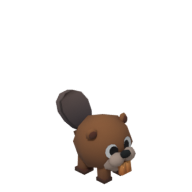
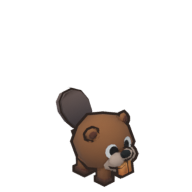
feat(art): outline and brighter lighting for animals

diff --git a/tools/blender/animals.py b/tools/blender/animals.py
@@ -21,6 +21,43 @@ def load(path: str, height: float) -> bpy.types.Object:
     return root
 
 
+def add_outline(width: float, color: str) -> None:
+    bpy.context.view_layer.update()
+    material = _outline_material(color)
+    for body in [body for body in bpy.data.objects if body.type == "MESH"]:
+        body.data.materials.append(material)
+        scale = sum(body.matrix_world.to_scale()) / 3.0
+        hull = body.modifiers.new("outline", "SOLIDIFY")
+        hull.thickness = width / scale
+        hull.offset = 1.0
+        hull.use_flip_normals = True
+        hull.use_rim = False
+        hull.material_offset = len(body.data.materials) - 1
+
+
+def _outline_material(color: str) -> bpy.types.Material:
+    material = bpy.data.materials.new("outline")
+    material.use_nodes = True
+    tree = material.node_tree
+    tree.nodes.clear()
+    output = tree.nodes.new("ShaderNodeOutputMaterial")
+    emission = tree.nodes.new("ShaderNodeEmission")
+    emission.inputs["Color"].default_value = parts.srgb_to_linear(color)
+    hidden = tree.nodes.new("ShaderNodeBsdfTransparent")
+    facing = tree.nodes.new("ShaderNodeNewGeometry")
+    mix = tree.nodes.new("ShaderNodeMixShader")
+    tree.links.new(facing.outputs["Backfacing"], mix.inputs["Fac"])
+    tree.links.new(emission.outputs["Emission"], mix.inputs[1])
+    tree.links.new(hidden.outputs["BSDF"], mix.inputs[2])
+    path = tree.nodes.new("ShaderNodeLightPath")
+    camera_only = tree.nodes.new("ShaderNodeMixShader")
+    tree.links.new(path.outputs["Is Camera Ray"], camera_only.inputs["Fac"])
+    tree.links.new(hidden.outputs["BSDF"], camera_only.inputs[1])
+    tree.links.new(mix.outputs["Shader"], camera_only.inputs[2])
+    tree.links.new(camera_only.outputs["Shader"], output.inputs["Surface"])
+    return material
+
+
 def frame_range(name: str) -> tuple:
     start, end = bpy.data.actions[name].frame_range
     return start, end

diff --git a/tools/blender/render_iso.py b/tools/blender/render_iso.py
@@ -49,8 +49,10 @@ def render_animal(stage: dict, species_id: str, spec: dict) -> None:
     canvas = (stage["animal_canvas"][0] * scale, stage["animal_canvas"][1] * scale)
     anchor = (canvas[0] / 2.0, canvas[1] - stage["foot_margin"] * scale)
     count = stage["animal_frames"]
-    iso_scene.reset(stage)
+    iso_scene.reset({**stage, "ambient": stage["animal_ambient"]})
     animals.load(os.path.join(ART_DIR, spec["model"]), spec["height"])
+    outline = stage["animal_outline"]
+    animals.add_outline(outline["width_px"] / iso_scene.pixels_per_unit(stage), outline["color"])
     iso_scene.frame(stage, canvas, anchor)
     for action in ("idle", "walk"):
         start, end = animals.frame_range(action)

diff --git a/docs/ESTADO.md b/docs/ESTADO.md
@@ -30,6 +30,7 @@
 - [x] 6.14 Auditoría de seguridad del Worker y del juego: sin críticos ni altos ni secretos. Arreglado: tras un 401 el cliente olvida las claves ya subidas y reenvía todo el ledger a la cuenta nueva (antes quedaban sin subir); un lote rechazado con 400 se salta en vez de bloquear la sync para siempre; las IPv4 mapeadas (`::ffff:a.b.c.d`) cuentan como IPv4 en el rate limit. Riesgos aceptados: el servidor confía en los montos del cliente (el saldo remoto es solo un backup no confiable y nunca se restaura); la purga de inactivos corre solo en cada alta (sin cron, ver 6.6); el ledger local se recorta a 500 entradas y sin conexión puede perder entradas viejas sin subir; el checksum del guardado no tiene clave (detecta corrupción, no trampas, que en un juego offline de un jugador no importan)
 - [x] 6.15 Arte en Blender: objetos y animales se renderizan con Blender 4.5 Cycles (`tools/blender/render_iso.py`, specs en `tools/blender/art_specs.json`), con sol suave y sombra propia. Modelos CC0 nuevos: Quaternius "Stylized Nature MegaKit" (`art/quaternius/`: roble, pino, cerezo, arbustos, seto, helecho, flores, rocas) y animales Gobkit (`art/gobkit/`); Kenney Nature queda para cercas, palmera, cactus, bambú y props. Especies renombradas a modelos disponibles: panda→koala, polar_bear→seal, giraffe→zebra (mismos costos y niveles; el guardado v2 migra los ids). Terreno y caminos siguen en `tools/render_models.gd`. Los PNG viejos de panda, polar_bear y giraffe y los modelos Kenney Cube Pets (`art/kenney/pets/`) se borraron. Web redeployada en https://focus-tycoon.ilandaniele.workers.dev y verificada en Chrome (arte nuevo, la partida guardada carga, consola sin errores)
 - [x] 6.16 Bioma variado: rocas Quaternius ahora gris claro con sombreado plano (`flat_materials` en `art_specs.json`) y agrupadas con pasto. Zona salvaje usa formaciones nuevas `assets/scenery/` (afloramiento, menhir, piedritas, tocón con hongos, pino alto/chico, árbol redondo, árbol retorcido) junto a pino, roble, helecho y arbusto (`scripts/world/scenery.gd`). Pasto del estanque y los recintos ahora claro: el material `Grass` es plano y con brillo suave (`flat_materials` y `glow_materials`); se sacaron los nenúfares, que salían negros
+- [x] 6.17 Animales más legibles: contorno oscuro de 1,5 px (casco invertido en Blender, visible solo para la cámara, así no tapa la luz) y luz ambiente más alta solo para animales (`animal_outline` y `animal_ambient` en `art_specs.json`). Re-renderizados los 8 animales con sus tiras idle/walk
 
 ## Verificación actual
 - `godot --path . --headless -s res://tests/run_tests.gd`: 231 tests, 0 fallos, 0 `SCRIPT ERROR`. El runner cuenta como fallo un script de test que no compila y un test que dispara un error de script en ejecución (un `Logger` registrado con `OS.add_logger` los cuenta).
